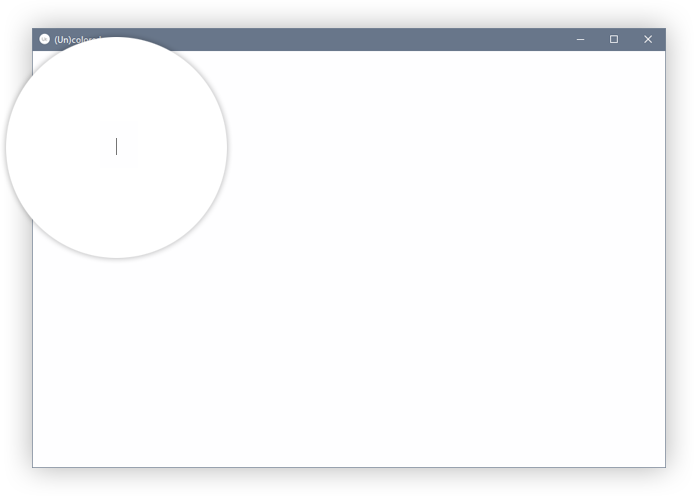
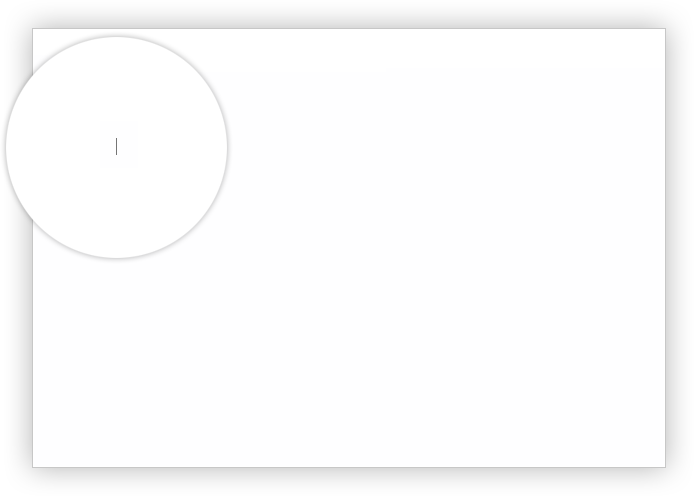
updated website for release v.0.9.1

Changed region(s): [[0.0303, 0.0302, 0.9683, 0.121]]

diff --git a/index.html b/index.html
@@ -44,8 +44,20 @@
         </li>
 
         <li>
-          <a class="hint--left softpedia-certificate" target="_blank" href="http://mac.softpedia.com/get/Word-Processing/Uncolored.shtml" data-hint="Softpedia® article & certificate — 100% Free & Clean application">
-            <img class="full-width" src="img/softpedia-certificate.png" alt="Softpedia article and certificate logo : 100% free and clean application">
+          <a class="featured-logo hint--left" target="_blank" href="http://electron.atom.io/apps/" data-hint="Listed Electron application">
+            <img class="full-width" src="img/electron-app-logo.png" alt="Electron logo">
+          </a>
+        </li>
+
+        <li>
+          <a class="featured-logo hint--left softpedia-certificate" target="_blank" href="http://mac.softpedia.com/get/Word-Processing/Uncolored.shtml" data-hint="Softpedia® article on v.0.8.1 & certificate - 100% Free & Clean application">
+            <img class="full-width" src="img/softpedia-certificate.png" alt="Softpedia certificate logo : 100% free and clean application">
+          </a>
+        </li>
+
+        <li>
+          <a class="featured-logo hint--left" target="_blank" href="http://www.blogduwebdesign.com/presentation-divers/editeur-contenu-gratuit-multiplateforme-epuree-clair-beau/2286" data-hint="(french website) BlogDuWebdesign article on v.0.8.1">
+            <img class="full-width" src="img/blogduwebdesign-logo.png" alt="BlogDuWebdesign logo">
           </a>
         </li>
       </ul>
@@ -70,7 +82,7 @@
     <main>
       <div class="row center-xs">
         <div class="col-xs-11">
-          <img class="full-width app-large-img" src="img/uncolored-large-screenshot.png" alt="(Un)colored large screenshot">
+          <img class="full-width app-large-img windows-os" src="" alt="(Un)colored large screenshot">
         </div>
       </div>
 
@@ -91,7 +103,7 @@
                 <div class="title download">Download</div>
                 <div class="title choose">Choose your Download</div>
               </div>
-              <div class="version">v.0.8.1 - beta</div>
+              <div class="version">v.0.9.1 - beta</div>
               <!-- a.file-label-container cloned here via JS-->
             </div>
             <ul class="list-more remove-list-style">

diff --git a/download.html b/download.html
@@ -28,12 +28,12 @@
           <p>
             Your download will automatically start shortly.<br>
             If that's not the case, start it manually with the following link :
-            <a class="win-setup" href="https://github.com/n457/Uncolored/releases/download/v.0.8.1/Uncolored-v.0.8.1-win-x64-setup.exe">Uncolored-v.0.8.1-win-x64-setup.exe</a>
-            <a class="win-zip" href="https://github.com/n457/Uncolored/releases/download/v.0.8.1/Uncolored-v.0.8.1-win-x64.zip">Uncolored-v.0.8.1-win-x64.zip</a>
-            <a class="osx-dmg" href="https://github.com/n457/Uncolored/releases/download/v.0.8.1/Uncolored-v.0.8.1-osx-x64.dmg">Uncolored-v.0.8.1-osx-x64.dmg</a>
-            <a class="osx-zip" href="https://github.com/n457/Uncolored/releases/download/v.0.8.1/Uncolored-v.0.8.1-osx-x64.zip">Uncolored-v.0.8.1-osx-x64.zip</a>
-            <a class="deb" href="https://github.com/n457/Uncolored/releases/download/v.0.8.1/Uncolored-v.0.8.1-linux-x64.deb">Uncolored-v.0.8.1-linux-x64.deb</a>
-            <a class="linux-zip" href="https://github.com/n457/Uncolored/releases/download/v.0.8.1/Uncolored-v.0.8.1-linux-x64.zip">Uncolored-v.0.8.1-linux-x64.zip</a>
+            <a class="win-setup" href="https://github.com/n457/Uncolored/releases/download/v.0.9.1/Uncolored-v.0.9.1-win-x64-setup.exe">Uncolored-v.0.9.1-win-x64-setup.exe</a>
+            <a class="win-zip" href="https://github.com/n457/Uncolored/releases/download/v.0.9.1/Uncolored-v.0.9.1-win-x64.zip">Uncolored-v.0.9.1-win-x64.zip</a>
+            <a class="osx-dmg" href="https://github.com/n457/Uncolored/releases/download/v.0.9.1/Uncolored-v.0.9.1-osx-x64.dmg">Uncolored-v.0.9.1-osx-x64.dmg</a>
+            <a class="osx-zip" href="https://github.com/n457/Uncolored/releases/download/v.0.9.1/Uncolored-v.0.9.1-osx-x64.zip">Uncolored-v.0.9.1-osx-x64.zip</a>
+            <a class="deb" href="https://github.com/n457/Uncolored/releases/download/v.0.9.1/Uncolored-v.0.9.1-linux-x64.deb">Uncolored-v.0.9.1-linux-x64.deb</a>
+            <a class="linux-zip" href="https://github.com/n457/Uncolored/releases/download/v.0.9.1/Uncolored-v.0.9.1-linux-x64.zip">Uncolored-v.0.9.1-linux-x64.zip</a>
           </p>
         </div>
       </div>

diff --git a/js/index.js b/js/index.js
@@ -1,14 +1,31 @@
 $(function () {
 
-  $DownloadButton = $('.multi-download-button');
-  $AppVersion = $DownloadButton.find('.version');
+  var $AppLargeImg = $('.app-large-img');
+  var strAppLargeImgPathBase = 'img/uncolored-large-screenshot-.png';
+  var $DownloadButton = $('.multi-download-button');
+  var $AppVersion = $DownloadButton.find('.version');
 
+  if (platform.os.family === 'Windows') {
+    $AppLargeImg.attr('src', strAppLargeImgPathBase.replace('.png', 'win.png'));
+    $AppVersion.after($DownloadButton.find('.win-setup').clone());
+  }
+  else if (platform.os.family === 'OS X') {
+    $AppLargeImg.attr('src', strAppLargeImgPathBase.replace('.png', 'osx.png'));
+    $AppVersion.after($DownloadButton.find('.osx-dmg').clone());
+  }
+  // OS family detection on Debian returns 'Linux'
+  else if (platform.os.family === 'Ubuntu') {
+    $AppLargeImg.attr('src', strAppLargeImgPathBase.replace('.png', 'linux.png'));
+    $AppVersion.after($DownloadButton.find('.deb').clone());
+  }
+  else {
+    $AppLargeImg.attr('src', strAppLargeImgPathBase.replace('.png', 'linux.png'));
+    $DownloadButton.removeClass('os-known');
+    $DownloadButton.addClass('os-unknown');
+    $DownloadButton.addClass('opened');
+  }
 
-  emojify.setConfig({ img_dir: 'lib/emojis' });
-
-  $('.contains-emojis').each(function () {
-    emojify.run(this);
-  });
+  $AppLargeImg.addClass('visible');
 
 
   $DownloadButton.find('.more-button').on('click', function () {
@@ -19,20 +36,9 @@ $(function () {
   });
 
 
-  if (platform.os.family === 'Windows') {
-    $AppVersion.after($DownloadButton.find('.win-setup').clone());
-  }
-  else if (platform.os.family === 'OS X') {
-    $AppVersion.after($DownloadButton.find('.osx-dmg').clone());
-  }
-  // OS family detection on Debian returns 'Linux'
-  else if (platform.os.family === 'Ubuntu') {
-    $AppVersion.after($DownloadButton.find('.deb').clone());
-  }
-  else {
-    $DownloadButton.removeClass('os-known');
-    $DownloadButton.addClass('os-unknown');
-    $DownloadButton.addClass('opened');
-  }
+  emojify.setConfig({ img_dir: 'lib/emojis' });
 
+  $('.contains-emojis').each(function () {
+    emojify.run(this);
+  });
 });

diff --git a/css/index.css b/css/index.css
@@ -26,17 +26,20 @@
   position: absolute;
   top: 28px;
   right: 28px; }
-  .right-info-col a {
-    display: block;
-    max-width: 78px; }
 
-  .github-button {
-    margin-left: 27px; }
-    .github-button .mega-octicon {
-      color: #464646;
-      transition: color 0.6s; }
-    .github-button:hover .mega-octicon {
-      color: black; }
+  .right-info-col a {
+    display: block; }
+    .right-info-col .featured-logo {
+      width: 45px;
+      margin: 6px auto; }
+
+    .github-button {
+      text-align: center; }
+      .github-button .mega-octicon {
+        color: #464646;
+        transition: color 0.6s; }
+      .github-button:hover .mega-octicon {
+        color: black; }
 
   .stars-count {
     width: 78px;
@@ -44,7 +47,7 @@
     margin-top: 4px; }
 
   .softpedia-certificate {
-    margin-top: 14px; }
+    width: 56px !important; }
 
 
 .app-logo {
@@ -58,9 +61,12 @@
 
 
 .app-large-img {
+  display: none;
   max-width: 1030px;
   margin-top: 106px;
   margin-bottom: 54px; }
+  .app-large-img.visible {
+    display: inline-block; }
 
 
 .not-signed-warning {
@@ -136,7 +142,7 @@
     overflow: hidden;
     transition: height 0.8s, padding 0.8s, background-color 0.3s; }
     .multi-download-button.opened .list-more {
-      height: 222px;
+      height: 228px;
       padding: 8px 0; }
     .list-more .file-label-container {
       padding: 6px 16px;
